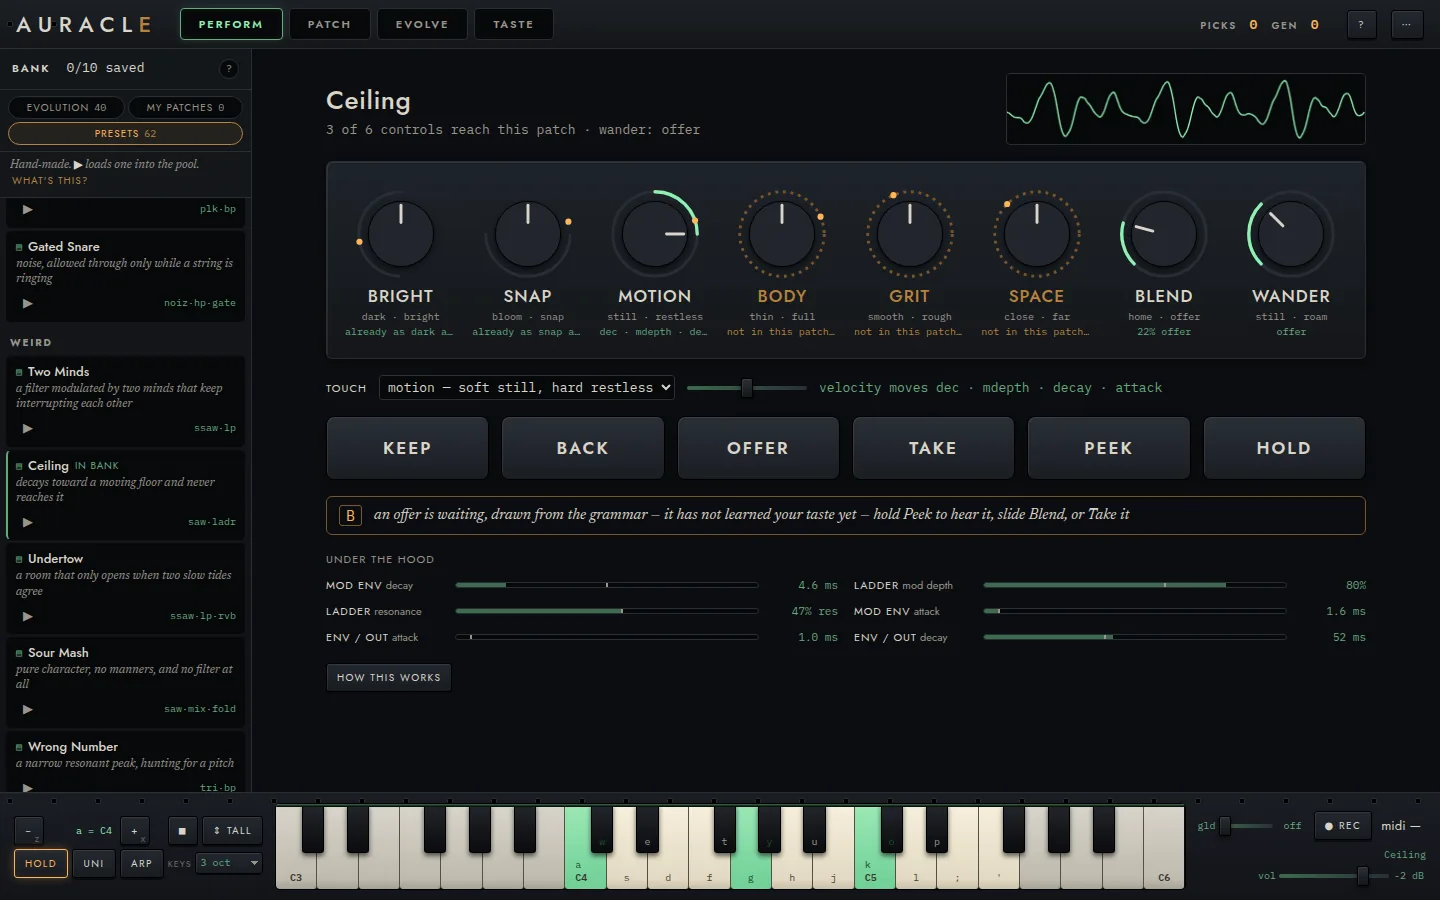
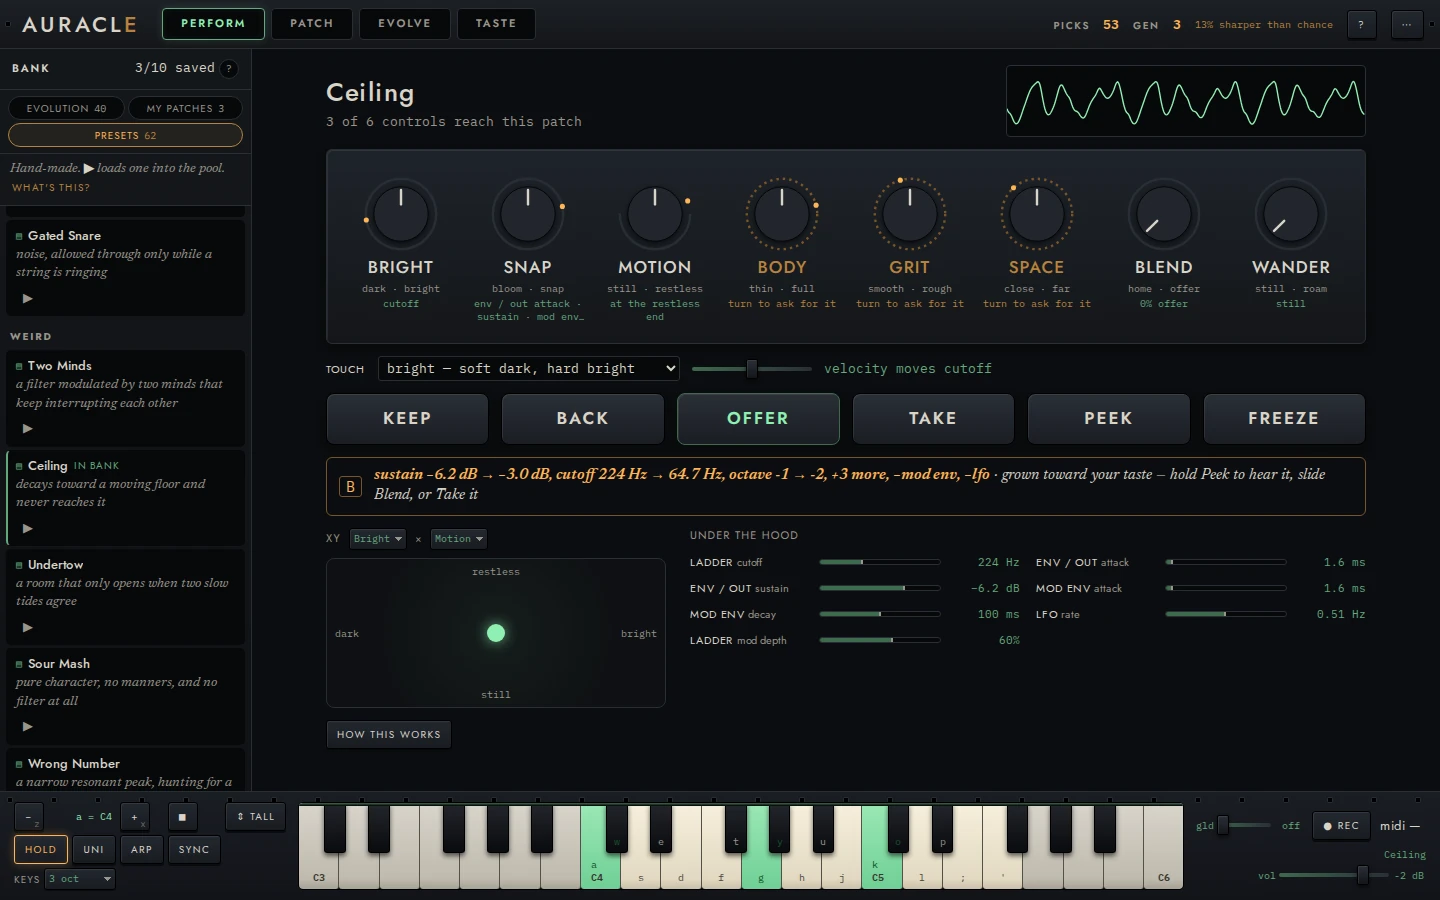
feat(site): screenshots re-captured from a taught session, automatically
capture-screens.mjs drives the real app from a fresh profile: the warm
start, then duels answered by one consistent listener (dark, tonal, slow,
sustained), EVOLVE POOL every ten picks until 44 picks and three generations,
a reload, and grooming (HELD emptied, a well-rated evolved patch on the
bench, minimap on). It shoots every frame the landing page and the docs use,
stops on any console error, and writes where each crop's subject landed.
encode-screens.sh falls back to a Pillow encoder when cwebp and magick are
missing. All 15 WebP frames are new: the polished UI, an eight-module rack,
three taste styles, TRUST with 33 forecasts.

Claude-Session: https://claude.ai/code/session_014UUrtfhPTevrqmTo6Nxih7

diff --git a/www/SCREENSHOTS.md b/www/SCREENSHOTS.md
@@ -28,9 +28,10 @@ is a crop**, published at the size it was cropped to and never upscaled. If you
 find yourself wanting a frame to be bigger, the answer is a new crop rectangle
 in `encode-screens.sh`, not a wider figure.
 
-A run takes 12–15 minutes on a busy machine, most of it breeding, and logs each
-step with its time. `--profile DIR` keeps the browser profile, so a second run
-finds the session already taught and only re-shoots (about a minute);
+From a fresh profile a run takes about 13 minutes on a busy four-core machine,
+most of it breeding, and logs every step with its time. `--profile DIR` keeps
+the browser profile, so a second run finds the session already taught and only
+re-shoots (one to six minutes, depending on what the engine is still doing);
 `--only evolve,trust` re-shoots some.
 
 ### The session it teaches
@@ -39,15 +40,18 @@ A fresh session has no fitted model, so TASTE is empty and the bank has no
 predictions — which shows the product at its least interesting. So the script
 **teaches** one the way a person would: the three-pick warm start, then duels in
 EVOLVE with EVOLVE POOL every ten picks, to at least 44 picks and three
-generations (`--picks`, `--gens`) — where styles have separated. Every vote
+generations (`--picks`, `--gens`), where styles have separated — the committed
+shots have three lenses each claiming about a third of the bank. Every vote
 comes from one consistent synthetic listener (dark and tonal over bright and
 noisy, slow and sustained over short, read off the names the app gives patches
 from their measured features): a coin-flip voter would teach the model nothing,
 and TASTE would show noise where it should show a listener.
 
-It then reloads, so the frames show the saved session as a person coming back
-to it sees it, and does two pieces of grooming, both removing test debris
-rather than dressing up the product:
+It then reloads, so the frames show the saved session as someone coming back to
+it sees it, waits for the engine's refit of that session and for PERFORM's
+background measurements to finish (the engine is one thread, and a bank click
+queues behind them), and does two pieces of grooming — both removing test
+debris rather than dressing up the product:
 
 - **Empty the HELD tray.** Automated runs leave held modules in it; a real
   session has a handful at most. Each `.tray-item` goes with its `✕`.
@@ -55,31 +59,32 @@ rather than dressing up the product:
   patch fits at a zoom where `detail auto` has already dropped every knob, and
   a 1-module patch shows nothing. 6–10 modules is the range where plates,
   knobs, values and both cable colours are all legible. The script takes the
-  highest-predicted evolution patch in that range with a modulation chain,
-  rates it five stars, turns the minimap on, and zooms `⌘=` two steps above
-  the fitted zoom — more while the knob labels are under the rack's 8px
-  silkscreen floor — which fills the frame while the minimap shows the whole
-  patch.
+  highest-ranked evolution patch in that range with a modulation chain that the
+  listener likes, rates it five stars, scrolls the rail so its row sits second
+  (the bank-row crop's slot), turns the minimap on and zooms `⌘=` two steps
+  above the fitted zoom — more while knob labels are under the rack's 8px
+  silkscreen floor — then pans the few pixels that keep the frame's edges
+  between rows of plates rather than through their titles.
 
 ### Per-shot state
 
 | Raw file | View | State |
 |---|---|---|
-| `play.png` | PATCH | that patch, tray empty, zoomed in |
-| `nodebank.png` | PATCH | same, hovering `formant` in the node bank, the spec strip dragged open to fit its card (its 92px default at this size clips the "heard as" line) |
+| `play.png` | PATCH | that patch, tray empty, zoomed in, minimap on |
+| `nodebank.png` | PATCH | same, the node bank scrolled to SOURCES and `formant` hovered, the spec strip dragged open to fit its card (its 92px default at this size clips the "heard as" line) |
 | `evolve.png` | EVOLVE | a duel dealt and heard, marked as an unbiased probe, the meter on a refit boundary, lineage log populated |
-| `taste.png` | TASTE › MAP | styles separated, the bench patch's dot ringed |
+| `taste.png` | TASTE › MAP | styles separated, the PATCH patch's dot ringed |
 | `styles.png` | TASTE › STYLES | — |
 | `directions.png` | TASTE › DIRECTIONS | — |
 | `trust.png` | TASTE › TRUST | — |
-| `warmstart.png` | — | the three-pick card, nothing picked: **⋯** → *Re-run the three-pick warm start*, then dismissed with **SKIP**, which records nothing |
+| `warmstart.png` | — | the three-pick card, nothing picked: **⋯** → *Re-run the three-pick warm start*, re-dealt until every row is two lines (the size the crop is cut to), dismissed with **SKIP**, which records nothing |
 | `perform.png` | PERFORM | `Ceiling`, measured, a chord latched on HOLD, the first steps done, an offer waiting in B |
 
 A shot of a broken app is worse than no shot, and the app logs its own failures
 loudly, so any page error or `console.error` stops the run before the next
 frame. Toasts are waited out rather than removed, the pointer is parked in the
-menu bar, and `rects.json` beside the frames records where each crop's subject
-landed.
+menu bar, a style name too long for its chip is reported, and `rects.json`
+beside the frames records where each crop's subject landed.
 
 ## Encode
 
@@ -95,6 +100,6 @@ but without `-sharp_yuv`, so check saturated type at 2×. Keep an eye on the
 total: the landing page eagerly loads only the first showcase frame and
 lazy-loads the rest, but the whole set still rides in the repo.
 
-A crop rectangle is a claim about the layout, and the bank-row and rack-detail
-ones about the session too: when either moves, check them against `rects.json`.
-A crop that changes size changes the `width`/`height` of the pages showing it.
+A crop rectangle is a claim about the layout, and rack-detail's about the patch
+too: when either changes, check them against `rects.json`. A crop that changes
+size changes the `width`/`height` of every page that shows it.
